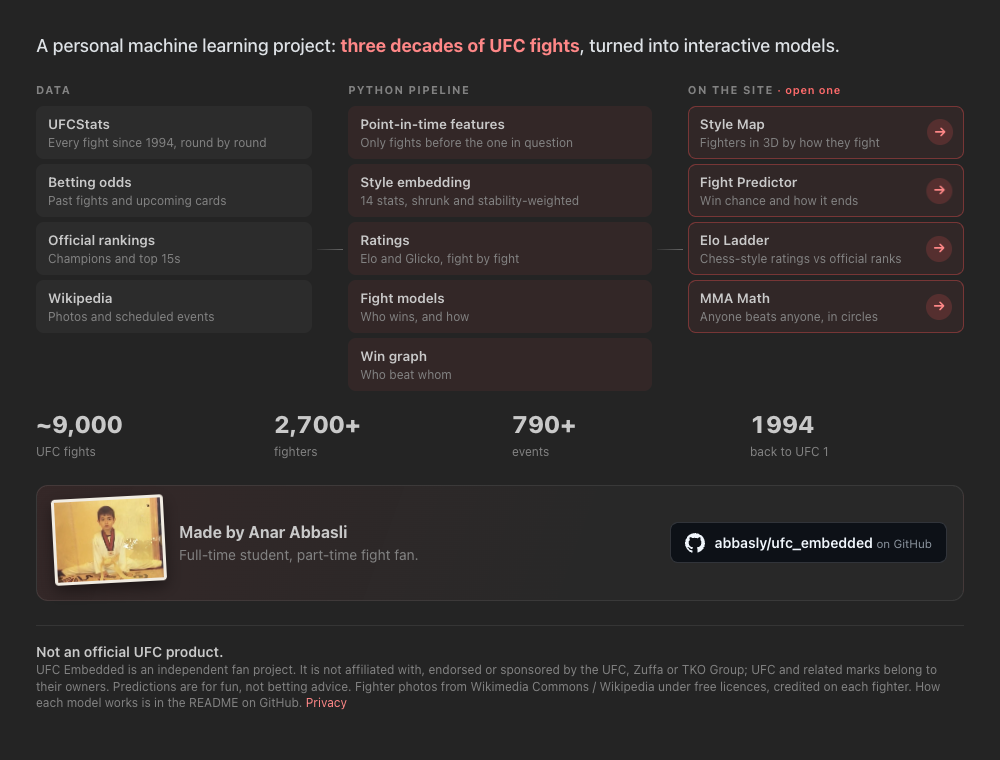
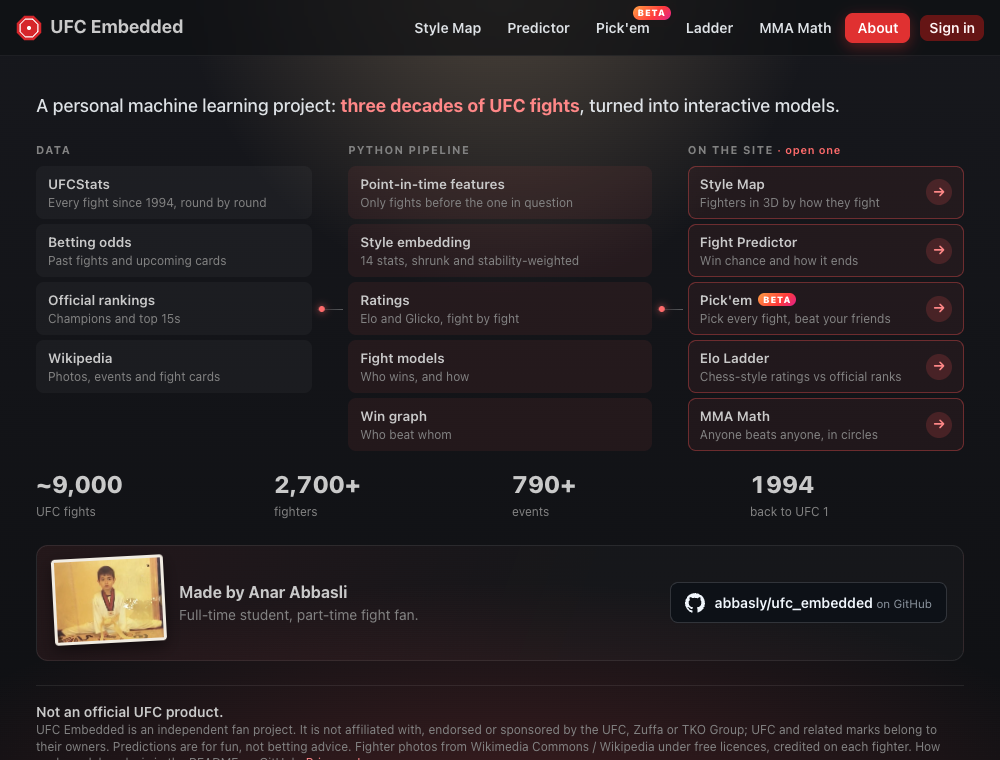
docs: Pick'em on the About page and in the README, with new screenshots

diff --git a/web/src/pages/AboutPage.tsx b/web/src/pages/AboutPage.tsx
@@ -6,6 +6,7 @@ import { type CSSProperties, Fragment, useEffect, useRef, useState } from "react
 import { Link } from "react-router-dom";
 
 import { type RecentVisits, recentVisits } from "../app/visits";
+import { accountsEnabled } from "../backend";
 
 const REPO = "https://github.com/abbasly/ufc_embedded";
 
@@ -13,6 +14,7 @@ interface FlowItem {
   title: string;
   text: string;
   to?: string;
+  tag?: string; // e.g. "BETA"
 }
 
 // How the site fits together: where the data comes from, what the Python side does with it,
@@ -24,7 +26,7 @@ const FLOW: { label: string; hint?: string; core?: boolean; items: FlowItem[] }[
       { title: "UFCStats", text: "Every fight since 1994, round by round" },
       { title: "Betting odds", text: "Past fights and upcoming cards" },
       { title: "Official rankings", text: "Champions and top 15s" },
-      { title: "Wikipedia", text: "Photos and scheduled events" },
+      { title: "Wikipedia", text: "Photos, events and fight cards" },
     ],
   },
   {
@@ -45,6 +47,7 @@ const FLOW: { label: string; hint?: string; core?: boolean; items: FlowItem[] }[
     items: [
       { title: "Style Map", text: "Fighters in 3D by how they fight", to: "/style-map" },
       { title: "Fight Predictor", text: "Win chance and how it ends", to: "/predictor" },
+      ...(accountsEnabled ? [{ title: "Pick'em", tag: "BETA", text: "Pick every fight, beat your friends", to: "/pickem" }] : []),
       { title: "Elo Ladder", text: "Chess-style ratings vs official ranks", to: "/ladder" },
       { title: "MMA Math", text: "Anyone beats anyone, in circles", to: "/mma-math" },
     ],
@@ -131,7 +134,10 @@ function HowItFits({ first }: { first: number }) {
               item.to ? (
                 <Link key={item.title} to={item.to} className="flow-item flow-link reveal" style={step(i++)}>
                   <div>
-                    <b>{item.title}</b>
+                    <b>
+                      {item.title}
+                      {item.tag && <em className="flow-tag">{item.tag}</em>}
+                    </b>
                     <span>{item.text}</span>
                   </div>
                   <span className="flow-arrow" aria-hidden>
@@ -163,7 +169,8 @@ function GitHubMark({ size = 20 }: { size?: number }) {
 
 export function AboutPage() {
   const flowStart = 1;
-  const statsStart = flowStart + 18; // after the diagram's labels, rails and items
+  // After the diagram's labels, rails and items.
+  const statsStart = flowStart + FLOW.length * 2 - 1 + FLOW.reduce((n, col) => n + col.items.length, 0);
   return (
     // Everything but the disclaimer fits on one laptop screen, so there's no big title.
     <Container size="md" py="lg" className="about">

diff --git a/web/src/pages/About.css b/web/src/pages/About.css
@@ -173,6 +173,20 @@
   line-height: 1.35;
 }
 
+/* "BETA" next to a page's name. */
+.flow-tag {
+  margin-left: 6px;
+  padding: 1px 5px;
+  border-radius: 999px;
+  font-size: 9px;
+  font-style: normal;
+  font-weight: 900;
+  letter-spacing: 0.08em;
+  vertical-align: 2px;
+  color: #fff;
+  background: linear-gradient(135deg, #ff9f43, #ff3b3b 60%, #e0218a);
+}
+
 /* The pipeline in the middle is the heart of it: a faint red wash. */
 .flow-core .flow-item {
   background: rgba(250, 82, 82, 0.07);

diff --git a/README.md b/README.md
@@ -6,8 +6,8 @@ Every active UFC fighter, mapped by how they fight.
 
 A personal ML engineering project: three decades of UFC fights turned into interactive,
 explorable models. Data is current to the latest UFC event (fights, records, rankings and odds
-from UFCStats and bookmakers, via Kaggle). Works on desktop and phone; fully static, hosted free
-on GitHub Pages.
+from UFCStats and bookmakers, via Kaggle). Works on desktop and phone; the models are static
+files hosted free on GitHub Pages, and Pick'em (beta) adds accounts on Supabase.
 
 <table>
   <tr>
@@ -28,6 +28,16 @@ on GitHub Pages.
     <td width="50%" valign="top">
       <a href="https://ufc.anarli.com/ladder"><img src="docs/screenshots/ladder.png" alt="Elo ladder"></a><br>
       <sub><b>Elo Ladder</b>: ratings, official ranks, climbers and drops</sub>
+    </td>
+  </tr>
+  <tr>
+    <td width="50%" valign="top">
+      <a href="https://ufc.anarli.com/pickem"><img src="docs/screenshots/pickem.png" alt="Pick'em"></a><br>
+      <sub><b>Pick'em</b> (beta): pick every fight on the next UFC card</sub>
+    </td>
+    <td width="50%" valign="top">
+      <a href="https://ufc.anarli.com/pickem"><img src="docs/screenshots/pickem-locked.png" alt="Pick'em after the lock"></a><br>
+      <sub>After the lock: your league's picks, the crowd's split, standings</sub>
     </td>
   </tr>
   <tr>
@@ -53,6 +63,13 @@ on GitHub Pages.
   likely outcome (who, and by KO / submission / decision), what drives the call, past meetings
   and common opponents, and a tale of the tape. Upcoming UFC cards scroll past in a ticker
   (from bookmakers' listings); click a fight to load it, with our pick next to the bookies'.
+- **[Pick'em](https://ufc.anarli.com/pickem)** (beta): sign in with Google or an email link, pick the winner of
+  every fight on the next UFC card (and, for a bonus, how they win) before it locks on fight
+  day. Cards come from Wikipedia with the main card, prelims and title fights; results are
+  scored automatically (10 for the winner, +5 for the method, +5 for calling an underdog).
+  Private leagues with invite links; once a card locks, you see your league-mates' picks and
+  how the whole crowd picked. Each bout links to its full prediction and MMA math. Profiles
+  have a fighter of your choice as the picture, your points and past cards.
 - **[Elo Ladder](https://ufc.anarli.com/ladder)**: every fighter rated chess-style from every UFC fight since 1994,
   next to their official rank, with the year's biggest climbers and drops.
 - **[MMA Math](https://ufc.anarli.com/mma-math)**: a calculator that "proves" any fighter beats any other with a chain of
@@ -188,7 +205,8 @@ bigger gaps, so the model has learned nothing about size beyond that.
 ## Architecture
 
 The Python side runs offline and writes JSON files; the website is a separate static app
-that only reads them. No server needed, so it hosts for free on GitHub Pages.
+that only reads them. No server needed, so it hosts for free on GitHub Pages (Pick'em's
+accounts are the one exception: see below).
 
 ```mermaid
 flowchart LR
@@ -214,23 +232,38 @@ flowchart LR
         client["data/client.ts<br/>only place that fetches"] --> feat["features/style-map<br/>React + three.js"]
         client --> mmaui["features/mma-math<br/>chains + loops"]
         client --> predui["features/predictor<br/>cards + predictions"]
+        backend["backend/<br/>Supabase or demo"] --> pickui["features/pickem<br/>picks, leagues, profiles"]
     end
 
     json --> client
     web -->|"GitHub Actions"| pages(["GitHub Pages<br/>ufc.anarli.com"])
     worker(["Cloudflare Worker<br/>visit count"]) --> web
+    wiki --> sync["pickem_sync.py<br/>fight cards, results"]
+    sync --> supa[("Supabase<br/>accounts, picks, scores, leagues")]
+    supa <-->|"row level security"| backend
 ```
 
 - **Data contract:** `export.py` writes JSON with a `schema_version`; `web/src/data/types.ts`
   mirrors it. Moving to a real API later only changes `client.ts`.
 - **Features are modular:** each product lives in `web/src/features/<name>/` and is lazy-loaded
   by its route.
-- **CI/CD:** every push to `master` runs ruff, mypy, pytest, the web tests and build, then deploys.
+- **Accounts (Pick'em):** the only server-side part. Supabase (Postgres + Auth, Frankfurt) is
+  reached straight from the browser with its public key; what each visitor may read and write
+  is enforced by row level security in the database, tested on every push
+  (`supabase/tests`). `web/src/backend/` is the only code that knows it's Supabase, behind a
+  `Backend` interface (with an in-browser demo backend for development). Cards, results and
+  scoring come from `pickem_sync.py` (Wikipedia fight cards + bookmakers' odds). See
+  [supabase/README.md](supabase/README.md).
+- **CI/CD:** every push to `master` runs ruff, mypy, pytest, the database tests, the web tests
+  and build, then deploys. The `beta` branch is built separately (Cloudflare) at
+  beta.anarli.com, for trying things before they reach the live site.
 
 ## Stack
 
 Python 3.12 with uv, pandas, scikit-learn, networkx; ruff, mypy (strict), pytest.
 Web: Vite, React, TypeScript, Mantine, react-three-fiber/drei, TanStack Query; vitest.
+Accounts: Supabase (Postgres with row level security, Auth with Google and email links), Resend
+for email.
 
 ## Running it
 
@@ -244,6 +277,10 @@ uv run pytest                            # Python tests
 cd web && npm install
 npm run dev                              # http://localhost:5173
 npm test                                 # web tests
+VITE_ACCOUNTS=demo npm run dev           # Pick'em with an in-browser demo backend
+
+uv run python -m ufc_embedded.pickem_sync | pbcopy   # Pick'em cards + results as SQL (see supabase/README.md)
+supabase/tests/run.sh                    # database security tests (needs a local Postgres)
 ```
 
 Raw data isn't committed. Download these regularly updated Kaggle datasets into
